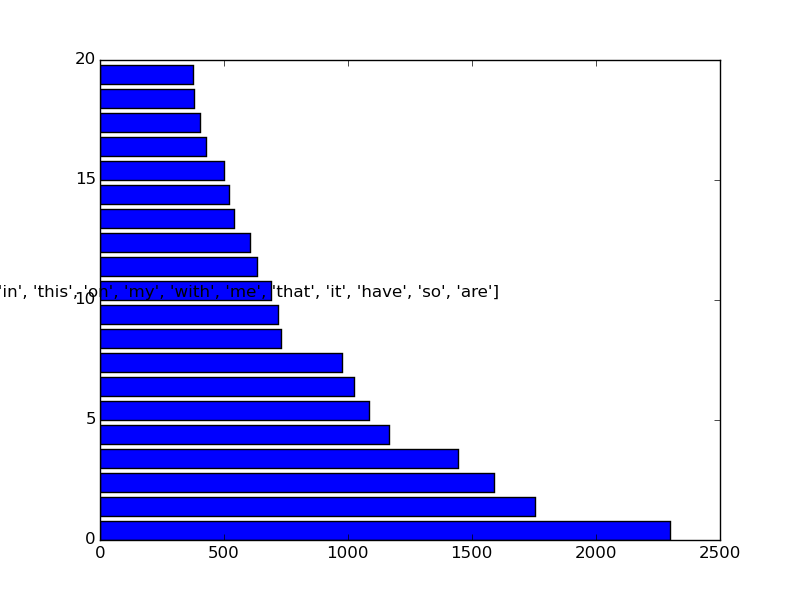
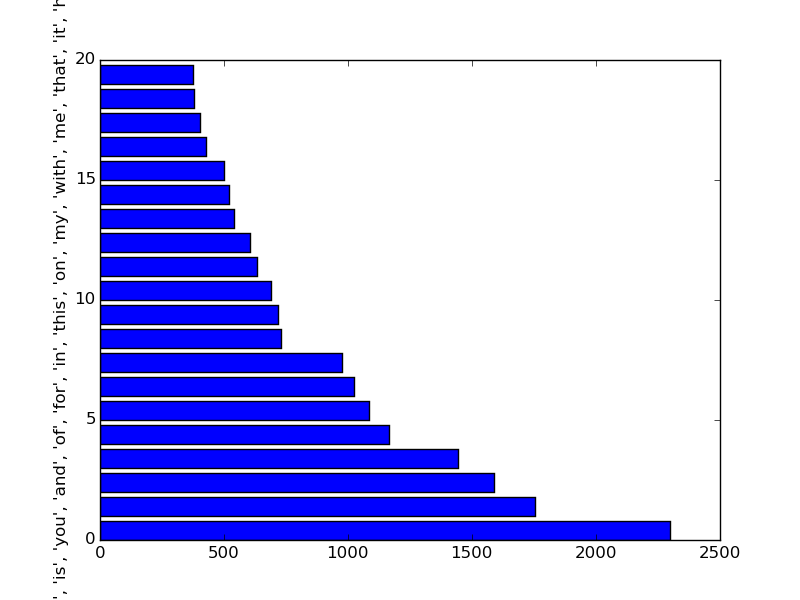
plot udpated

diff --git a/exercise_2/barplot.py b/exercise_2/barplot.py
@@ -16,7 +16,7 @@ bar_labels = [rec[0] for rec in records]
 bar_length = [rec[1] for rec in records]
 
 plt.barh(bar_val, bar_length)
-plt.ylabel(bar_labels, rotation=0)
+plt.ylabel(bar_labels, rotation=90)
 plt.savefig('barplot.png')
 conn.commit()
 conn.close()
